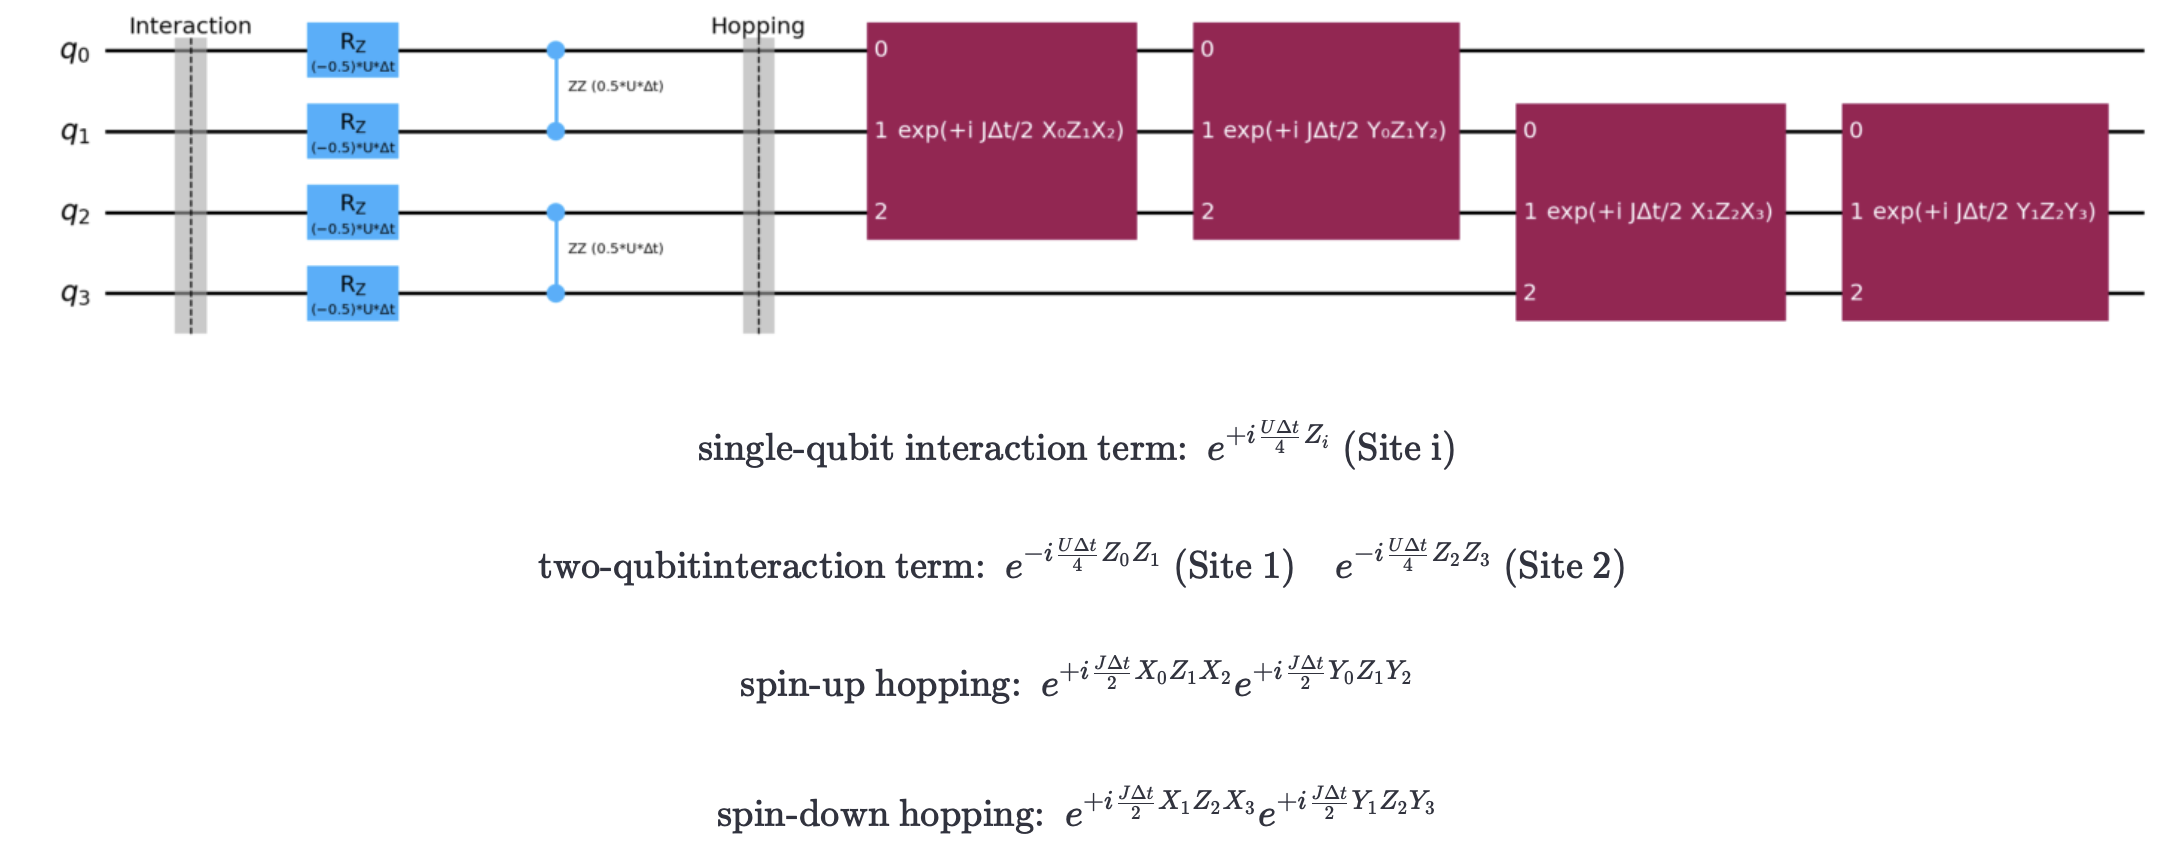
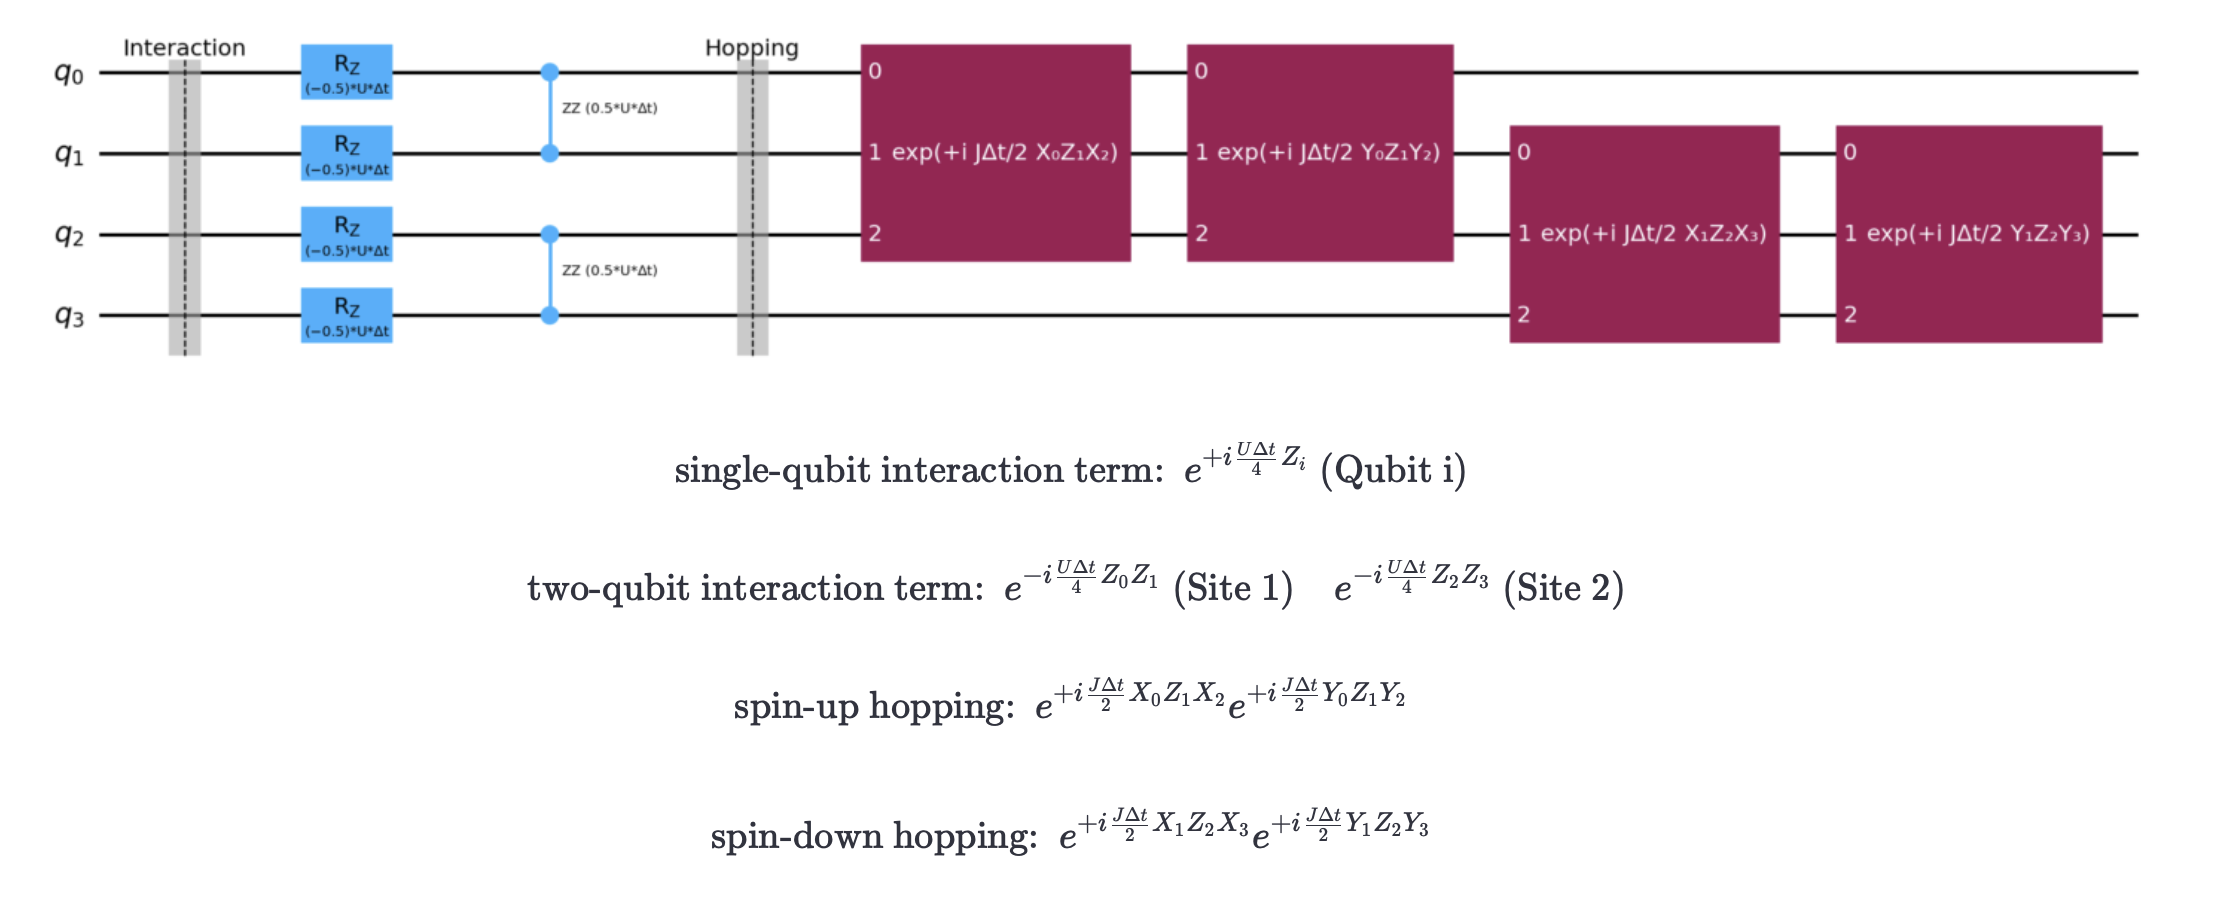
final update

diff --git a/app.py b/app.py
@@ -23,8 +23,6 @@ from backend import (
 
 st.set_page_config(page_title="P452 Quantum Simulator", layout="wide")
 st.title("P452 Project 1 — Quantum Simulator")
-st.caption("Teleportation and 2-site Fermi–Hubbard demos on a 10-qubit-capable Aer backend")
-
 
 def render_circuit_matplotlib(qc, scale: float = 0.8):
     fig = qc.draw(output="mpl", scale=scale, idle_wires=False)
@@ -119,11 +117,11 @@ def render_hubbard_page():
 
     st.latex(
         r"\text{single-qubit interaction term: }\ "
-        r"e^{+i\frac{U\Delta t}{4}Z_i}\ \text{(Site i)}"
+        r"e^{+i\frac{U\Delta t}{4}Z_i}\ \text{(Qubit i)}"
     )
 
     st.latex(
-        r"\text{ two-qubitinteraction term: }\ "
+        r"\text{ two-qubit interaction term: }\ "
         r"e^{-i\frac{U\Delta t}{4}Z_0Z_1}\ \text{(Site 1)}"
         r"\quad "
         r"e^{-i\frac{U\Delta t}{4}Z_2Z_3}\ \text{(Site 2)}"
@@ -161,9 +159,6 @@ def render_hubbard_page():
             {"Quantity": "Time at maximum", "Value": f"{report.noninteracting_taus[best_idx]:.4f}"},
         ]
     )
-    st.markdown(
-        "This answers Q3.2: the probability rises to nearly one, showing full coherent transfer in the non-interacting limit."
-    )
 
     st.markdown("### Q3.3 Strong interaction and doublon suppression")
     st.markdown(
@@ -186,10 +181,6 @@ def render_hubbard_page():
             {"Quantity": "Largest plotted transition probability", "Value": f"{report.strong_transition_probs[transition_max_idx]:.4f}"},
             {"Quantity": "Remain probability at same time", "Value": f"{report.strong_remain_probs[transition_max_idx]:.4f}"},
         ]
-    )
-    st.markdown(
-        "This answers Q3.3: large `U` makes doublon motion energetically costly, so tunneling is suppressed. "
-        "The system mostly remains in `|1100>`, which is the two-site signature of Mott-insulating behavior."
     )
 
 
@@ -259,30 +250,16 @@ elif preset == "Q1.4 Unitarity and State Recovery":
             st.divider()
         render_q14_step(step, shots=int(shots))
 
-    st.markdown("### Analysis")
-    st.markdown(
-        "Each CNOT gate is unitary, so the nine-gate chain is unitary. "
-        "Applying the same CNOTs in reverse order implements the inverse operation, "
-        "which returns the non-zero amplitudes and measurement probabilities to the initial state."
-    )
-
 elif preset == "Q2.1 and Q2.3 Teleportation":
     q21 = q21_teleportation_result()
     q23 = q23_teleportation_zero_result()
 
     st.subheader("Phase 2: Teleportation")
-    st.markdown(
-        "The Bell State Preparation and Bell Measurement stages are labeled directly in the circuit barriers."
-    )
 
     render_teleportation_result(q21, shots=int(shots), show_circuit=True)
 
     st.divider()
     render_teleportation_result(q23, shots=int(shots), show_circuit=True)
-    st.markdown(
-        "For Q2.3, Bob should find `|0⟩` with probability 1. "
-        "In the ideal simulator, any nonzero `|1⟩` count would come from implementation error rather than hardware noise."
-    )
 
 elif preset == "Q2.2 Long-Distance CNOT":
     result = q22_long_distance_cnot_result()

diff --git a/README.md b/README.md
@@ -1,44 +1,5 @@
-# P452 Project 1 — Simulation of a Universal Quantum Computer
+# P452 Project 1 — Quantum Simulator
 
-This package contains a full-stack starter solution for the assignment:
+To run the streamlit webapp, open the terminal and in the \PHYS-45200 directory run `streamlit run app.py`
 
-- `backend.py`: 10-qubit-capable Aer backend and reusable circuit utilities.
-- `app.py`: Streamlit frontend with the required preset circuits.
-- `analysis_notebook.py`: notebook-style script answering the written checkpoint questions.
-- `requirements.txt`: dependencies for local execution or Streamlit Cloud.
-
-## Run locally
-
-```bash
-pip install -r requirements.txt
-streamlit run app.py
-```
-
-## Files matched to assignment tasks
-
-### Phase 1
-- **Backend**: `run_circuit(circuit)` in `backend.py`
-- **Frontend preset selection / slider / circuit view**: `app.py`
-- **Q1.2 parameter loop**: `bell_param_circuit(theta)`
-- **Q1.3 10-qubit GHZ visualization**: `ghz10_circuit()`
-- **Q1.4 unitarity and state recovery**: `prepare_superposition_201_425()`, `entangling_chain()`, `entangling_chain_inverse()`
-
-### Phase 2
-- **Teleportation**: `teleportation_circuit(alpha, beta)`
-- **Long-distance CNOT routing**: `long_distance_cnot_q0_q4_linear()`
-
-### Phase 3
-- **One Trotter step**: `one_trotter_step_hubbard(U, J, dt)`
-- **Dynamics plots**: `sweep_hubbard_probability(...)`
-
-## Deployment
-
-1. Push these files to a public GitHub repository.
-2. On Streamlit Cloud, deploy with `app.py` as the entry point.
-3. Add `requirements.txt` so the cloud build installs Qiskit and Streamlit.
-
-## Notes
-
-- For the parameter-control screenshot, set `theta = pi`. The ideal output is all counts in `11`.
-- For the GHZ screenshot, use the **10-qubit GHZ** preset and capture the circuit diagram.
-- For the written report, use the figures generated in `analysis_notebook.py`.
+For answers for the checkpoint questions, see the markdown file `Checkpoint_Answers.md`
